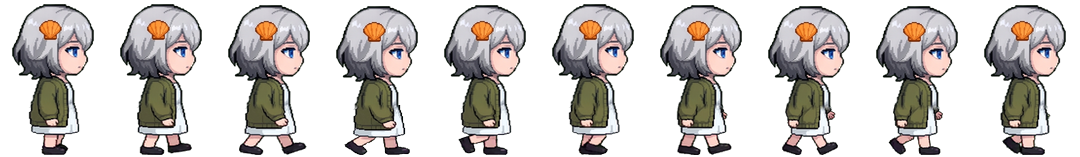
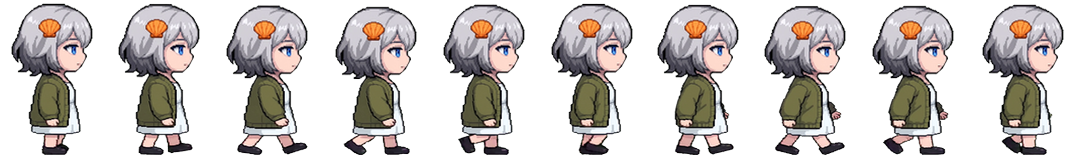
옆모습 영상 걷기: 정지 그림과 섞지 않고, 영상 그림을 턱에서 나눠 머리·몸 비율만 정지 그림에 맞춤
섞어 붙이면 어디서 잘라도 이음매(목·팔꿈치)가 어긋나 보였음. 이제 모든 칸이 영상 그림 한 장 그대로.

Claude-Session: https://claude.ai/code/session_01MBgVgKbFxkEXND4zuEcjdV

diff --git a/tools/sprite_cleanup/video_walk.py b/tools/sprite_cleanup/video_walk.py
@@ -69,40 +69,31 @@ def main(out_dir, name, idle_name, video, start, period, count, fps=8, mirror_as
         cell.alpha_composite(f, (dx, dy)) if dx >= 0 and dy >= 0 else cell.paste(f, (dx, dy), f)
         cells.append(cell)
         sheet.alpha_composite(cell, (i * cw, 0))
-    # 머리는 정지 그림으로: 영상은 머리를 작게, 몸을 길게 다시 그려서 정지와 번갈아 나오면 머리 크기가 튐.
-    # 칸마다 영상의 턱 아래 몸을 정지 그림의 몸 길이에 맞춰 늘이고, 그 위에 정지 그림의 머리를 붙임 (영상의 오르내림은 유지)
-    _, s_chin, _ = chin_rows(stand)
-    t0 = None
+    # 비율 맞춤 (그림을 섞지 않음): 영상은 머리를 작게·몸을 길게 그려서, 같은 영상 그림을 턱에서 나눠
+    # 머리는 정지 그림 머리 크기로, 몸은 정지 그림 몸 길이로 따로 늘이고 줄임. 가로 배율은 둘이 같아 이음매가 그대로 맞음.
+    s_top, s_chin, _ = chin_rows(stand)
+    c_top, c_chin, c_bot = chin_rows(cells[0])
+    ku = (s_chin - s_top) / (c_chin - c_top)
+    kl = (s_bot - s_chin) / (c_bot - c_chin)
+    kxx = head_width(stand) / head_width(cells[0])
+    t0 = c_top
     sheet = Image.new("RGBA", (cw * count, ch), (0, 0, 0, 0))
     fixed = []
+    sx = np.nonzero((sa[s_chin + 2:s_chin + 2 + int((s_bot - s_chin) * 0.55), :, 3] > 128).any(0))[0]
     for i, cell in enumerate(cells):
-        top, v_chin, v_bot = chin_rows(cell)
-        t0 = top if t0 is None else t0
-        dy = int(top - t0)                                   # 영상의 몸 오르내림
-        body = cell.crop((0, v_chin, cw, v_bot + 1))
-        bh = s_bot + 1 - (s_chin + dy)
-        # 폭은 상체(카디건)만으로 잼: 다리가 벌어진 칸에서 몸이 홀쭉해지지 않게
-        bb = np.array(body)
-        bx = np.nonzero((bb[: int(bb.shape[0] * 0.55), :, 3] > 128).any(0))[0]
-        sx = np.nonzero((sa[s_chin + 2:s_chin + 2 + int((s_bot - s_chin) * 0.55), :, 3] > 128).any(0))[0]
-        kx = (sx[-1] - sx[0] + 1) / (bx[-1] - bx[0] + 1)      # 몸 폭도 정지 그림에 맞춤
-        body = hq_resize_xy(body, max(1, round(cw * kx)), bh)
-        bxs = np.nonzero((np.array(body)[: int(bh * 0.55), :, 3] > 128).any(0))[0]
-        ox = int(round((sx[0] + sx[-1]) / 2 - (bxs[0] + bxs[-1]) / 2))
+        top, chin, bot = chin_rows(cell)
+        w = max(1, round(cw * kxx))
+        up = hq_resize_xy(cell.crop((0, 0, cw, chin)), w, max(1, round(chin * ku)))
+        low = hq_resize_xy(cell.crop((0, chin, cw, bot + 1)), w, max(1, round((bot + 1 - chin) * kl)))
+        g = Image.new("RGBA", (w, up.height + low.height), (0, 0, 0, 0))
+        g.alpha_composite(up, (0, 0))
+        g.alpha_composite(low, (0, up.height))
+        ga = np.array(g)
+        gx = np.nonzero((ga[up.height + 2:up.height + 2 + int(low.height * 0.55), :, 3] > 128).any(0))[0]
+        ox = int(round((sx[0] + sx[-1]) / 2 - (gx[0] + gx[-1]) / 2))
+        oy = s_bot + 1 - g.height                     # 발바닥을 바닥선에
         out_c = Image.new("RGBA", (cw, ch), (0, 0, 0, 0))
-        out_c.alpha_composite(body, (max(0, ox), s_chin + dy)) if ox >= 0 else out_c.paste(body, (ox, s_chin + dy), body)
-        # 정지 그림을 목 아래 가슴까지(겨드랑이 높이) 덮고, 그 아래 몇 줄은 섞어서 이음매를 숨김
-        s_hem2 = hem_row(sa)
-        cut = s_chin + int((s_hem2 - s_chin) * 0.45)
-        blend = 5
-        top_part = np.array(stand.crop((0, 0, cw, cut + blend))).astype(float)
-        for r in range(blend):
-            top_part[cut + r, :, 3] *= 1 - (r + 1) / (blend + 1)
-        top_img = Image.fromarray(top_part.clip(0, 255).astype(np.uint8), "RGBA")
-        oc = np.array(out_c)
-        oc[max(0, dy):cut + dy] = 0                              # 영상의 목·가슴은 지움
-        out_c = Image.fromarray(oc, "RGBA")
-        out_c.alpha_composite(top_img, (0, dy)) if dy >= 0 else out_c.paste(top_img, (0, dy), top_img)
+        out_c.paste(g, (ox, oy), g)
         fixed.append(out_c)
         sheet.alpha_composite(out_c, (i * cw, 0))
     cells = fixed
